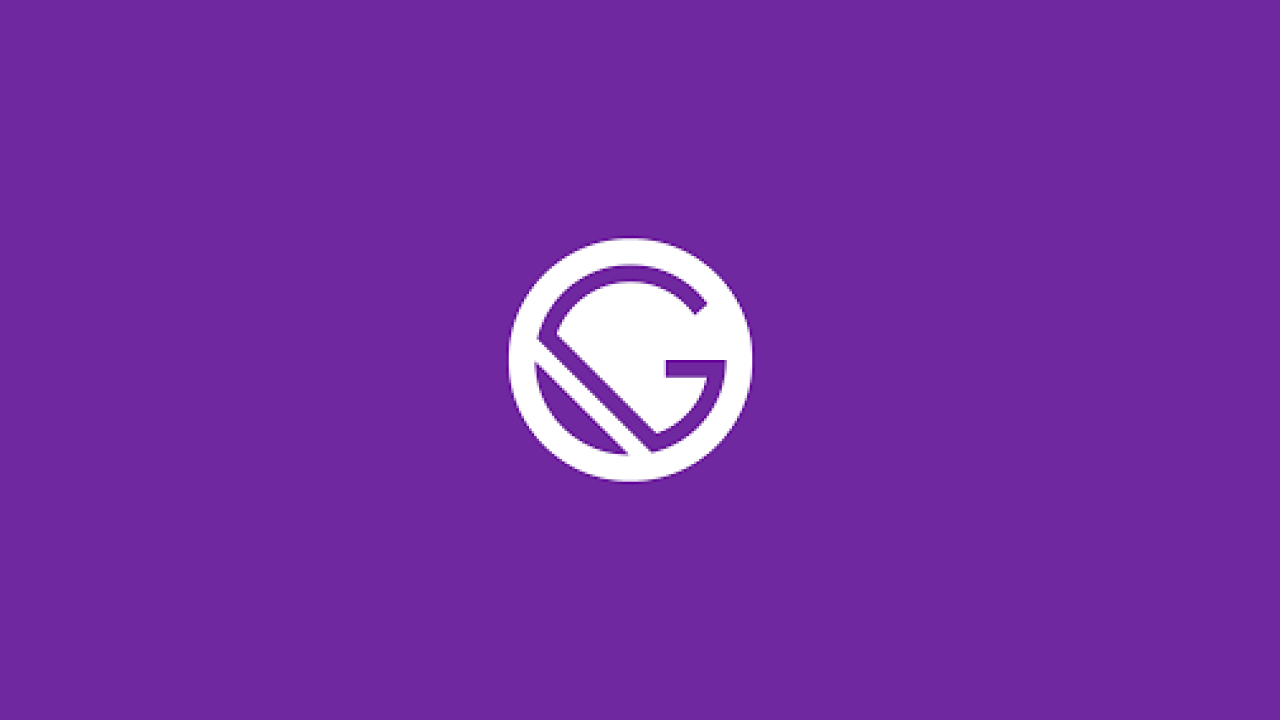
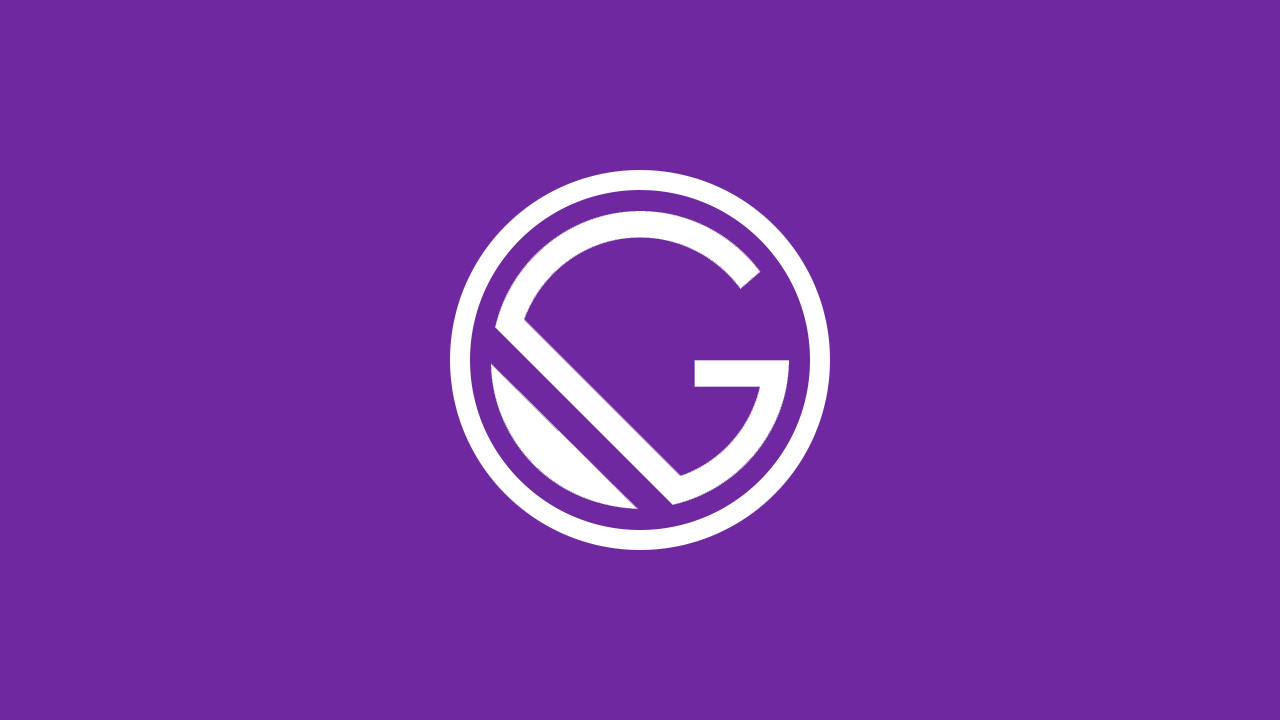
Created template in Photoshop for quickly creating daily images. Added a new one for R1D1.

Changed region(s): [[0.3438, 0.2139, 0.6562, 0.7639]]

diff --git a/README.md b/README.md
@@ -6,7 +6,7 @@
 
 ---
 
-title: "My 100 Days-of-Code Logger"
+title: "My 100 Days of Code Logger"
 day: "1"
 publishDate: "2021-02-08"
 thumbnailImage: "../images/day-1.png"
@@ -24,40 +24,16 @@ You can check out this project <a href="http://www.tylercsamuelson.com/projects"
 
 ### Day 2: February 10th Wednesday
 
----
+**Today's Progress**: More progress on the canvas of the Pomodoro Clock. Worked on CSS (still figuring out Flexbox things), have done some work with HTML5 canvas.
 
-title: "My 100 Days of Code Logger"
-day: "1"
-publishDate: "2021-02-08"
-thumbnailImage: "../images/day-1.png"
-shareText: "I built a place for my 100 Days of Code to live!"
-hashtags: ["100DaysOfCode", "Gatsby"]
-draft: false
+**Thoughts:** It's a bit frustrating to spend a lot of time figuring out how the canvas works.
 
----
-
-I dove into Gatsby today. After watching a few different Youtube "crash courses", I set off to create this visual logger for my 100 Days of Code. I'm hoping that giving myself this public forum will help keep me motivated and accountable for coding each day + providing updates.
-
-Building this also gave me a chance to play with Material UI + custom Mui themes.
-
-You can check out this project <a href="http://www.tylercsamuelson.com/projects" target="_blank">on my portfolio website.</a>.
+**Link to work:** [Pomodoro Clock App](https://github.com/Kallaway/pomodoro-clock/commit/2df8eae4f279cf45b6b080abc7f6b0d2cc58e742)
 
 ### Day 3: February 11th Thursday
 
----
+**Today's Progress**: Mostly worked on CSS. Coded very late at night, after French.
 
-title: "My 100 Days of Code Logger"
-day: "1"
-publishDate: "2021-02-08"
-thumbnailImage: "../images/day-1.png"
-shareText: "I built a place for my 100 Days of Code to live!"
-hashtags: ["100DaysOfCode", "Gatsby"]
-draft: false
+**Thoughts:** Had some CSS breakthroughs, and was happy at the end.
 
----
-
-I dove into Gatsby today. After watching a few different Youtube "crash courses", I set off to create this visual logger for my 100 Days of Code. I'm hoping that giving myself this public forum will help keep me motivated and accountable for coding each day + providing updates.
-
-Building this also gave me a chance to play with Material UI + custom Mui themes.
-
-You can check out this project <a href="http://www.tylercsamuelson.com/projects" target="_blank">on my portfolio website.</a>.
+**Link to work:** [Pomodoro Clock App](https://github.com/Kallaway/pomodoro-clock/commit/61bd66ec1d07d3e8d1b21c08380e4c826c79b67f)
